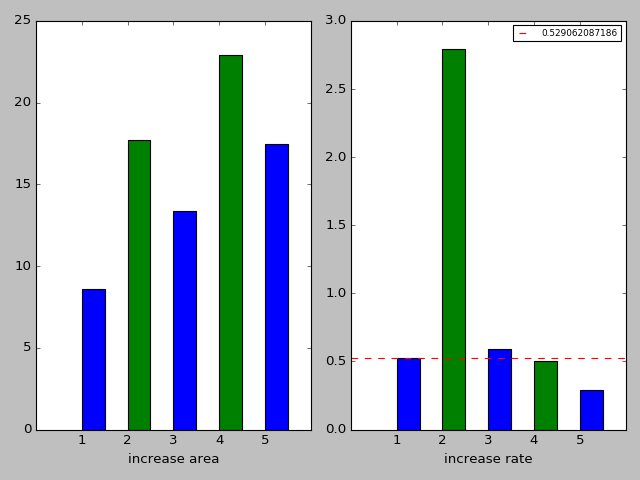
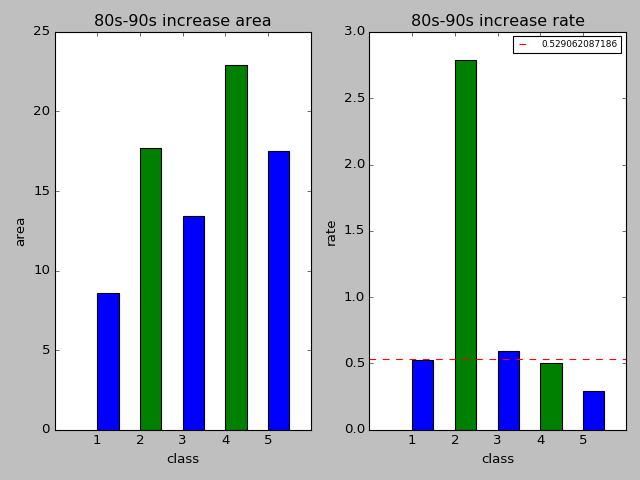
update plot.py

Changed region(s): [[0.0312, 0.0312, 1.0, 0.9688]]

diff --git a/plot.py b/plot.py
@@ -11,7 +11,9 @@ SA = strength_analysis()
 plt.clf()
 S_80s_90s, S_90s_00s = SA.area_S()
 plt.subplot(1, 2, 1)
-plt.xlabel("change area") # 变化面积
+plt.title('change area')
+plt.xlabel("years") # 变化面积
+plt.ylabel("change area") # 变化面积
 plt.xlim(0, 5)
 plt.xticks([1, 3], ['80s-90s', '90s-00s'])
 plt.bar([1, 3], [S_80s_90s, S_90s_00s], color=['blue', 'green'], width=0.7)
@@ -20,20 +22,24 @@ plt.tight_layout()
 # plot 2
 S_80s_90s, S_90s_00s, U = SA.S_U()
 plt.subplot(1, 2, 2)
+plt.title('change rate')
 plt.xlabel("change rate") # 变化率
+plt.ylabel("percent") # 变化面积
 plt.xlim(0, 5)
 plt.xticks([1, 3], ['80s-90s', '90s-00s'])
 plt.bar([1, 3], [S_80s_90s, S_90s_00s], color=['blue', 'green'], width=0.7)
 plt.axhline(U, linestyle='--', c='red', label=str(U))
 plt.legend(fontsize=8)
 plt.tight_layout()
-# plt.show()
+plt.show()
 
 # plot 3
 plt.clf()
 G_80s_90s, G_90s_00s, L_80s_90s, L_90s_00s = SA.area_GL()
 plt.subplot(1, 2, 1)
-plt.xlabel("increase area") # 变化面积
+plt.title('80s-90s increase area')
+plt.xlabel("class") # 变化面积
+plt.ylabel("area") # 变化面积
 plt.xlim(0, 6)
 plt.xticks([1, 2, 3, 4, 5], [1, 2, 3, 4, 5])
 plt.bar([1, 2, 3, 4, 5], G_80s_90s, color=['blue', 'green'], width=0.5)
@@ -43,20 +49,24 @@ plt.tight_layout()
 # plot 4
 G_80s_90s, G_90s_00s, L_80s_90s, L_90s_00s, U1, U2 = SA.GL()
 plt.subplot(1, 2, 2)
-plt.xlabel("increase rate") # 变化率
+plt.title('80s-90s increase rate')
+plt.xlabel("class") # 变化率
+plt.ylabel("rate") # 变化面积
 plt.xlim(0, 6)
 plt.xticks([1, 2, 3, 4, 5], [1, 2, 3, 4, 5])
 plt.bar([1, 2, 3, 4, 5], G_80s_90s, color=['blue', 'green'], width=0.5)
 plt.axhline(U1, linestyle='--', c = 'red', label=str(U1))
 plt.legend(fontsize=8)
 plt.tight_layout()
-# plt.show()
+plt.show()
 
 # plot 5
 plt.clf()
 G_80s_90s, G_90s_00s, L_80s_90s, L_90s_00s = SA.area_GL()
 plt.subplot(1, 2, 1)
-plt.xlabel("increase area") # 变化率
+plt.title('90s-00s increase area')
+plt.xlabel("class") # 变化率
+plt.ylabel("area") # 变化面积
 plt.xlim(0, 6)
 plt.xticks([1, 2, 3, 4, 5], [1, 2, 3, 4, 5])
 plt.bar([1, 2, 3, 4, 5], G_90s_00s, color=['blue', 'green'], width=0.5)
@@ -66,20 +76,24 @@ plt.tight_layout()
 # plot 6
 G_80s_90s, G_90s_00s, L_80s_90s, L_90s_00s, U1, U2 = SA.GL()
 plt.subplot(1, 2, 2)
-plt.xlabel("increase rate") # 变化率
+plt.title('90s-00s increase rate')
+plt.xlabel("class") # 变化率
+plt.ylabel("rate") # 变化面积
 plt.xlim(0, 6)
 plt.xticks([1, 2, 3, 4, 5], [1, 2, 3, 4, 5])
 plt.bar([1, 2, 3, 4, 5], G_90s_00s, color=['blue', 'green'], width=0.5)
 plt.axhline(U1, linestyle='--', c = 'red', label=str(U1))
 plt.legend(fontsize=8)
 plt.tight_layout()
-# plt.show()
+plt.show()
 
 # plot 7
 plt.clf()
 G_80s_90s, G_90s_00s, L_80s_90s, L_90s_00s = SA.area_GL()
 plt.subplot(1, 2, 1)
-plt.xlabel("decrease area") # 变化率
+plt.title('80s-90s decrease area')
+plt.xlabel("class") # 变化率
+plt.ylabel("area") # 变化面积
 plt.xlim(0, 6)
 plt.xticks([1, 2, 3, 4, 5], [1, 2, 3, 4, 5])
 plt.bar([1, 2, 3, 4, 5], L_80s_90s, color=['blue', 'green'], width=0.5)
@@ -89,20 +103,24 @@ plt.tight_layout()
 # plot 8
 G_80s_90s, G_90s_00s, L_80s_90s, L_90s_00s, U1, U2 = SA.GL()
 plt.subplot(1, 2, 2)
-plt.xlabel("decrease rate") # 变化率
+plt.title('80s-90s decrease rate')
+plt.xlabel("class") # 变化率
+plt.ylabel("rate") # 变化面积
 plt.xlim(0, 6)
 plt.xticks([1, 2, 3, 4, 5], [1, 2, 3, 4, 5])
 plt.bar([1, 2, 3, 4, 5], L_80s_90s, color=['blue', 'green'], width=0.5)
 plt.axhline(U2, linestyle='--', c = 'red', label=str(U2))
 plt.legend(fontsize=8)
 plt.tight_layout()
-# plt.show()
+plt.show()
 
 # plot 9
 plt.clf()
 G_80s_90s, G_90s_00s, L_80s_90s, L_90s_00s = SA.area_GL()
 plt.subplot(1, 2, 1)
-plt.xlabel("decrease area") # 变化率
+plt.title('90s-00s decrease area')
+plt.xlabel("class") # 变化率
+plt.ylabel("area") # 变化面积
 plt.xlim(0, 6)
 plt.xticks([1, 2, 3, 4, 5], [1, 2, 3, 4, 5])
 plt.bar([1, 2, 3, 4, 5], L_90s_00s, color=['blue', 'green'], width=0.5)
@@ -112,14 +130,16 @@ plt.tight_layout()
 # plot 10
 G_80s_90s, G_90s_00s, L_80s_90s, L_90s_00s, U1, U2 = SA.GL()
 plt.subplot(1, 2, 2)
-plt.xlabel("decrease rate") # 变化率
+plt.title('90s-00s decrease rate')
+plt.xlabel("class") # 变化率
+plt.ylabel("rate") # 变化面积
 plt.xlim(0, 6)
 plt.xticks([1, 2, 3, 4, 5], [1, 2, 3, 4, 5])
 plt.bar([1, 2, 3, 4, 5], L_90s_00s, color=['blue', 'green'], width=0.5)
 plt.axhline(U2, linestyle='--', c = 'red', label=str(U2))
 plt.legend(fontsize=8)
 plt.tight_layout()
-# plt.show()
+plt.show()
 
 R_80s_90s, R_90s_00s, W_80s_90s, W_90s_00s, Q_80s_90s, Q_90s_00s, V_80s_90s, V_90s_00s = SA.RWQV()
 for i in range(5):

diff --git a/README.md b/README.md
@@ -19,7 +19,7 @@ Arcgis 的学习建议参考官方文档：https://resources.arcgis.com/zh-cn/he
 
 原始数据展示：
 
-![原始图像展示](D:\Documentation\Project\Grassland ecology\Grassland_ecology\picture\1.png)
+![原始图像展示](https://github.com/Be-Zero/vegetation_coverage/blob/main/picture/1.png)
 
 ## 二、数据处理流程
 
@@ -99,7 +99,7 @@ print "ALL DONE"
 
 转换后的数据展示：
 
-![转换后的数据](D:\Documentation\Project\Grassland ecology\Grassland_ecology\picture\2.png)
+![转换后的数据](https://github.com/Be-Zero/vegetation_coverage/blob/main/picture/2.png)
 
 可以发现没什么区别。
 
@@ -191,7 +191,7 @@ print "OK!"
 
 植被覆盖度图像如下：
 
-![植被覆盖度图像](D:\Documentation\Project\Grassland ecology\Grassland_ecology\picture\3.png)
+![植被覆盖度图像](https://github.com/Be-Zero/vegetation_coverage/blob/main/picture/3.png)
 
 可以发现，它的颜色变浅了一些。
 
@@ -235,7 +235,7 @@ print "ok!"
 
 截取中国后的图像：
 
-![截取中国后的图像](D:\Documentation\Project\Grassland ecology\Grassland_ecology\picture\4.png)
+![截取中国后的图像](https://github.com/Be-Zero/vegetation_coverage/blob/main/picture/4.png)
 
 ### 5. 提取年代数据
 
@@ -274,7 +274,7 @@ print "ok!"
 
 提取年代数据后的图像：
 
-![提取年代数据后的图像](D:\Documentation\Project\Grassland ecology\Grassland_ecology\picture\5.png)
+![提取年代数据后的图像](https://github.com/Be-Zero/vegetation_coverage/blob/main/picture/5.png)
 
 ### 6. 划分等级
 
@@ -336,7 +336,7 @@ out3.save(out_path3)
 
 划分等级后的图像：
 
-![划分等级后的图像](D:\Documentation\Project\Grassland ecology\Grassland_ecology\picture\6.png)
+![划分等级后的图像](https://github.com/Be-Zero/vegetation_coverage/blob/main/picture/6.png)
 
 ### 7. 计算转移矩阵
 
@@ -356,7 +356,7 @@ out3.save(out_path3)
 
 * 点击：`Tools/Color Mapping/Density Slice` ；
 
-  ![7](D:\Documentation\Project\Grassland ecology\Grassland_ecology\picture\7.png)
+  ![7](https://github.com/Be-Zero/vegetation_coverage/blob/main/picture/7.png)
 
 * 点击 `ok` ；
 
@@ -370,11 +370,11 @@ out3.save(out_path3)
 
 * 点击 `Apply` ；
 
-  ![8](D:\Documentation\Project\Grassland ecology\Grassland_ecology\picture\8.png)
+  ![8](https://github.com/Be-Zero/vegetation_coverage/blob/main/picture/8.png)
 
 * 点击 `File/Output Ranges to Class Image` ；
 
-  ![9](D:\Documentation\Project\Grassland ecology\Grassland_ecology\picture\9.png)
+  ![9](https://github.com/Be-Zero/vegetation_coverage/blob/main/picture/9.png)
 
 * 输入保存路径保存图片。
 
@@ -452,7 +452,7 @@ $U$ 为时间 Intensity analysis 均值线的值。
 
 下图展示了两个时段的面积变化和面积变化速率，左图 x 轴表示时段，y 轴表示年平均面积变化量，右图 y 轴表示年平均面积变化速率百分比，红色的虚线为均值线，可以看出：中国植被覆盖度在 1980s — 1990s 的变化面积和变化速率均小于 1990s — 2000s。
 
-![10](D:\Documentation\Project\Grassland ecology\Grassland_ecology\picture\10.png)
+![10](https://github.com/Be-Zero/vegetation_coverage/blob/main/picture/10.png)
 
 ### 2. 层面二
 
@@ -468,13 +468,13 @@ $$
 
 下面的图像展示了两个时段的植被覆盖度等级变化规律，左图 x 轴表示植被覆盖等级，y 轴表示年平均变化面积，右图 x 轴表示植被覆盖等级，y 轴表示面积变化速率百分比，红色的虚线表示均值线 。均值线以下表示强度变化平缓，反之表示强度变化活跃。
 
-![11](D:\Documentation\Project\Grassland ecology\Grassland_ecology\picture\11.png)
+![11](https://github.com/Be-Zero/vegetation_coverage/blob/main/picture/11.png)
 
-![12](D:\Documentation\Project\Grassland ecology\Grassland_ecology\picture\12.png)
+![12](https://github.com/Be-Zero/vegetation_coverage/blob/main/picture/12.png)
 
-![13](D:\Documentation\Project\Grassland ecology\Grassland_ecology\picture\13.png)
+![13](https://github.com/Be-Zero/vegetation_coverage/blob/main/picture/13.png)
 
-![14](D:\Documentation\Project\Grassland ecology\Grassland_ecology\picture\14.png)
+![14](https://github.com/Be-Zero/vegetation_coverage/blob/main/picture/14.png)
 
 ### 3. 层面三
 
@@ -619,7 +619,9 @@ SA = strength_analysis()
 plt.clf()
 S_80s_90s, S_90s_00s = SA.area_S()
 plt.subplot(1, 2, 1)
-plt.xlabel("change area") # 变化面积
+plt.title('change area')
+plt.xlabel("years") # 变化面积
+plt.ylabel("change area") # 变化面积
 plt.xlim(0, 5)
 plt.xticks([1, 3], ['80s-90s', '90s-00s'])
 plt.bar([1, 3], [S_80s_90s, S_90s_00s], color=['blue', 'green'], width=0.7)
@@ -628,20 +630,24 @@ plt.tight_layout()
 # plot 2
 S_80s_90s, S_90s_00s, U = SA.S_U()
 plt.subplot(1, 2, 2)
+plt.title('change rate')
 plt.xlabel("change rate") # 变化率
+plt.ylabel("percent") # 变化面积
 plt.xlim(0, 5)
 plt.xticks([1, 3], ['80s-90s', '90s-00s'])
 plt.bar([1, 3], [S_80s_90s, S_90s_00s], color=['blue', 'green'], width=0.7)
 plt.axhline(U, linestyle='--', c='red', label=str(U))
 plt.legend(fontsize=8)
 plt.tight_layout()
-# plt.show()
+plt.show()
 
 # plot 3
 plt.clf()
 G_80s_90s, G_90s_00s, L_80s_90s, L_90s_00s = SA.area_GL()
 plt.subplot(1, 2, 1)
-plt.xlabel("increase area") # 变化面积
+plt.title('80s-90s increase area')
+plt.xlabel("class") # 变化面积
+plt.ylabel("area") # 变化面积
 plt.xlim(0, 6)
 plt.xticks([1, 2, 3, 4, 5], [1, 2, 3, 4, 5])
 plt.bar([1, 2, 3, 4, 5], G_80s_90s, color=['blue', 'green'], width=0.5)
@@ -651,20 +657,24 @@ plt.tight_layout()
 # plot 4
 G_80s_90s, G_90s_00s, L_80s_90s, L_90s_00s, U1, U2 = SA.GL()
 plt.subplot(1, 2, 2)
-plt.xlabel("increase rate") # 变化率
+plt.title('80s-90s increase rate')
+plt.xlabel("class") # 变化率
+plt.ylabel("rate") # 变化面积
 plt.xlim(0, 6)
 plt.xticks([1, 2, 3, 4, 5], [1, 2, 3, 4, 5])
 plt.bar([1, 2, 3, 4, 5], G_80s_90s, color=['blue', 'green'], width=0.5)
 plt.axhline(U1, linestyle='--', c = 'red', label=str(U1))
 plt.legend(fontsize=8)
 plt.tight_layout()
-# plt.show()
+plt.show()
 
 # plot 5
 plt.clf()
 G_80s_90s, G_90s_00s, L_80s_90s, L_90s_00s = SA.area_GL()
 plt.subplot(1, 2, 1)
-plt.xlabel("increase area") # 变化率
+plt.title('90s-00s increase area')
+plt.xlabel("class") # 变化率
+plt.ylabel("area") # 变化面积
 plt.xlim(0, 6)
 plt.xticks([1, 2, 3, 4, 5], [1, 2, 3, 4, 5])
 plt.bar([1, 2, 3, 4, 5], G_90s_00s, color=['blue', 'green'], width=0.5)
@@ -674,20 +684,24 @@ plt.tight_layout()
 # plot 6
 G_80s_90s, G_90s_00s, L_80s_90s, L_90s_00s, U1, U2 = SA.GL()
 plt.subplot(1, 2, 2)
-plt.xlabel("increase rate") # 变化率
+plt.title('90s-00s increase rate')
+plt.xlabel("class") # 变化率
+plt.ylabel("rate") # 变化面积
 plt.xlim(0, 6)
 plt.xticks([1, 2, 3, 4, 5], [1, 2, 3, 4, 5])
 plt.bar([1, 2, 3, 4, 5], G_90s_00s, color=['blue', 'green'], width=0.5)
 plt.axhline(U1, linestyle='--', c = 'red', label=str(U1))
 plt.legend(fontsize=8)
 plt.tight_layout()
-# plt.show()
+plt.show()
 
 # plot 7
 plt.clf()
 G_80s_90s, G_90s_00s, L_80s_90s, L_90s_00s = SA.area_GL()
 plt.subplot(1, 2, 1)
-plt.xlabel("decrease area") # 变化率
+plt.title('80s-90s decrease area')
+plt.xlabel("class") # 变化率
+plt.ylabel("area") # 变化面积
 plt.xlim(0, 6)
 plt.xticks([1, 2, 3, 4, 5], [1, 2, 3, 4, 5])
 plt.bar([1, 2, 3, 4, 5], L_80s_90s, color=['blue', 'green'], width=0.5)
@@ -697,20 +711,24 @@ plt.tight_layout()
 # plot 8
 G_80s_90s, G_90s_00s, L_80s_90s, L_90s_00s, U1, U2 = SA.GL()
 plt.subplot(1, 2, 2)
-plt.xlabel("decrease rate") # 变化率
+plt.title('80s-90s decrease rate')
+plt.xlabel("class") # 变化率
+plt.ylabel("rate") # 变化面积
 plt.xlim(0, 6)
 plt.xticks([1, 2, 3, 4, 5], [1, 2, 3, 4, 5])
 plt.bar([1, 2, 3, 4, 5], L_80s_90s, color=['blue', 'green'], width=0.5)
 plt.axhline(U2, linestyle='--', c = 'red', label=str(U2))
 plt.legend(fontsize=8)
 plt.tight_layout()
-# plt.show()
+plt.show()
 
 # plot 9
 plt.clf()
 G_80s_90s, G_90s_00s, L_80s_90s, L_90s_00s = SA.area_GL()
 plt.subplot(1, 2, 1)
-plt.xlabel("decrease area") # 变化率
+plt.title('90s-00s decrease area')
+plt.xlabel("class") # 变化率
+plt.ylabel("area") # 变化面积
 plt.xlim(0, 6)
 plt.xticks([1, 2, 3, 4, 5], [1, 2, 3, 4, 5])
 plt.bar([1, 2, 3, 4, 5], L_90s_00s, color=['blue', 'green'], width=0.5)
@@ -720,16 +738,23 @@ plt.tight_layout()
 # plot 10
 G_80s_90s, G_90s_00s, L_80s_90s, L_90s_00s, U1, U2 = SA.GL()
 plt.subplot(1, 2, 2)
-plt.xlabel("decrease rate") # 变化率
+plt.title('90s-00s decrease rate')
+plt.xlabel("class") # 变化率
+plt.ylabel("rate") # 变化面积
 plt.xlim(0, 6)
 plt.xticks([1, 2, 3, 4, 5], [1, 2, 3, 4, 5])
 plt.bar([1, 2, 3, 4, 5], L_90s_00s, color=['blue', 'green'], width=0.5)
 plt.axhline(U2, linestyle='--', c = 'red', label=str(U2))
 plt.legend(fontsize=8)
 plt.tight_layout()
-# plt.show()
+plt.show()
 
 R_80s_90s, R_90s_00s, W_80s_90s, W_90s_00s, Q_80s_90s, Q_90s_00s, V_80s_90s, V_90s_00s = SA.RWQV()
+for i in range(5):
+    for j in range(5):
+        if i == j:
+            continue
+        print "R_90s_00s[{}][{}]:{}".format(i, j, R_90s_00s[i][j]) # 4 to 5
 ```
 
 ## 四、参考文献
